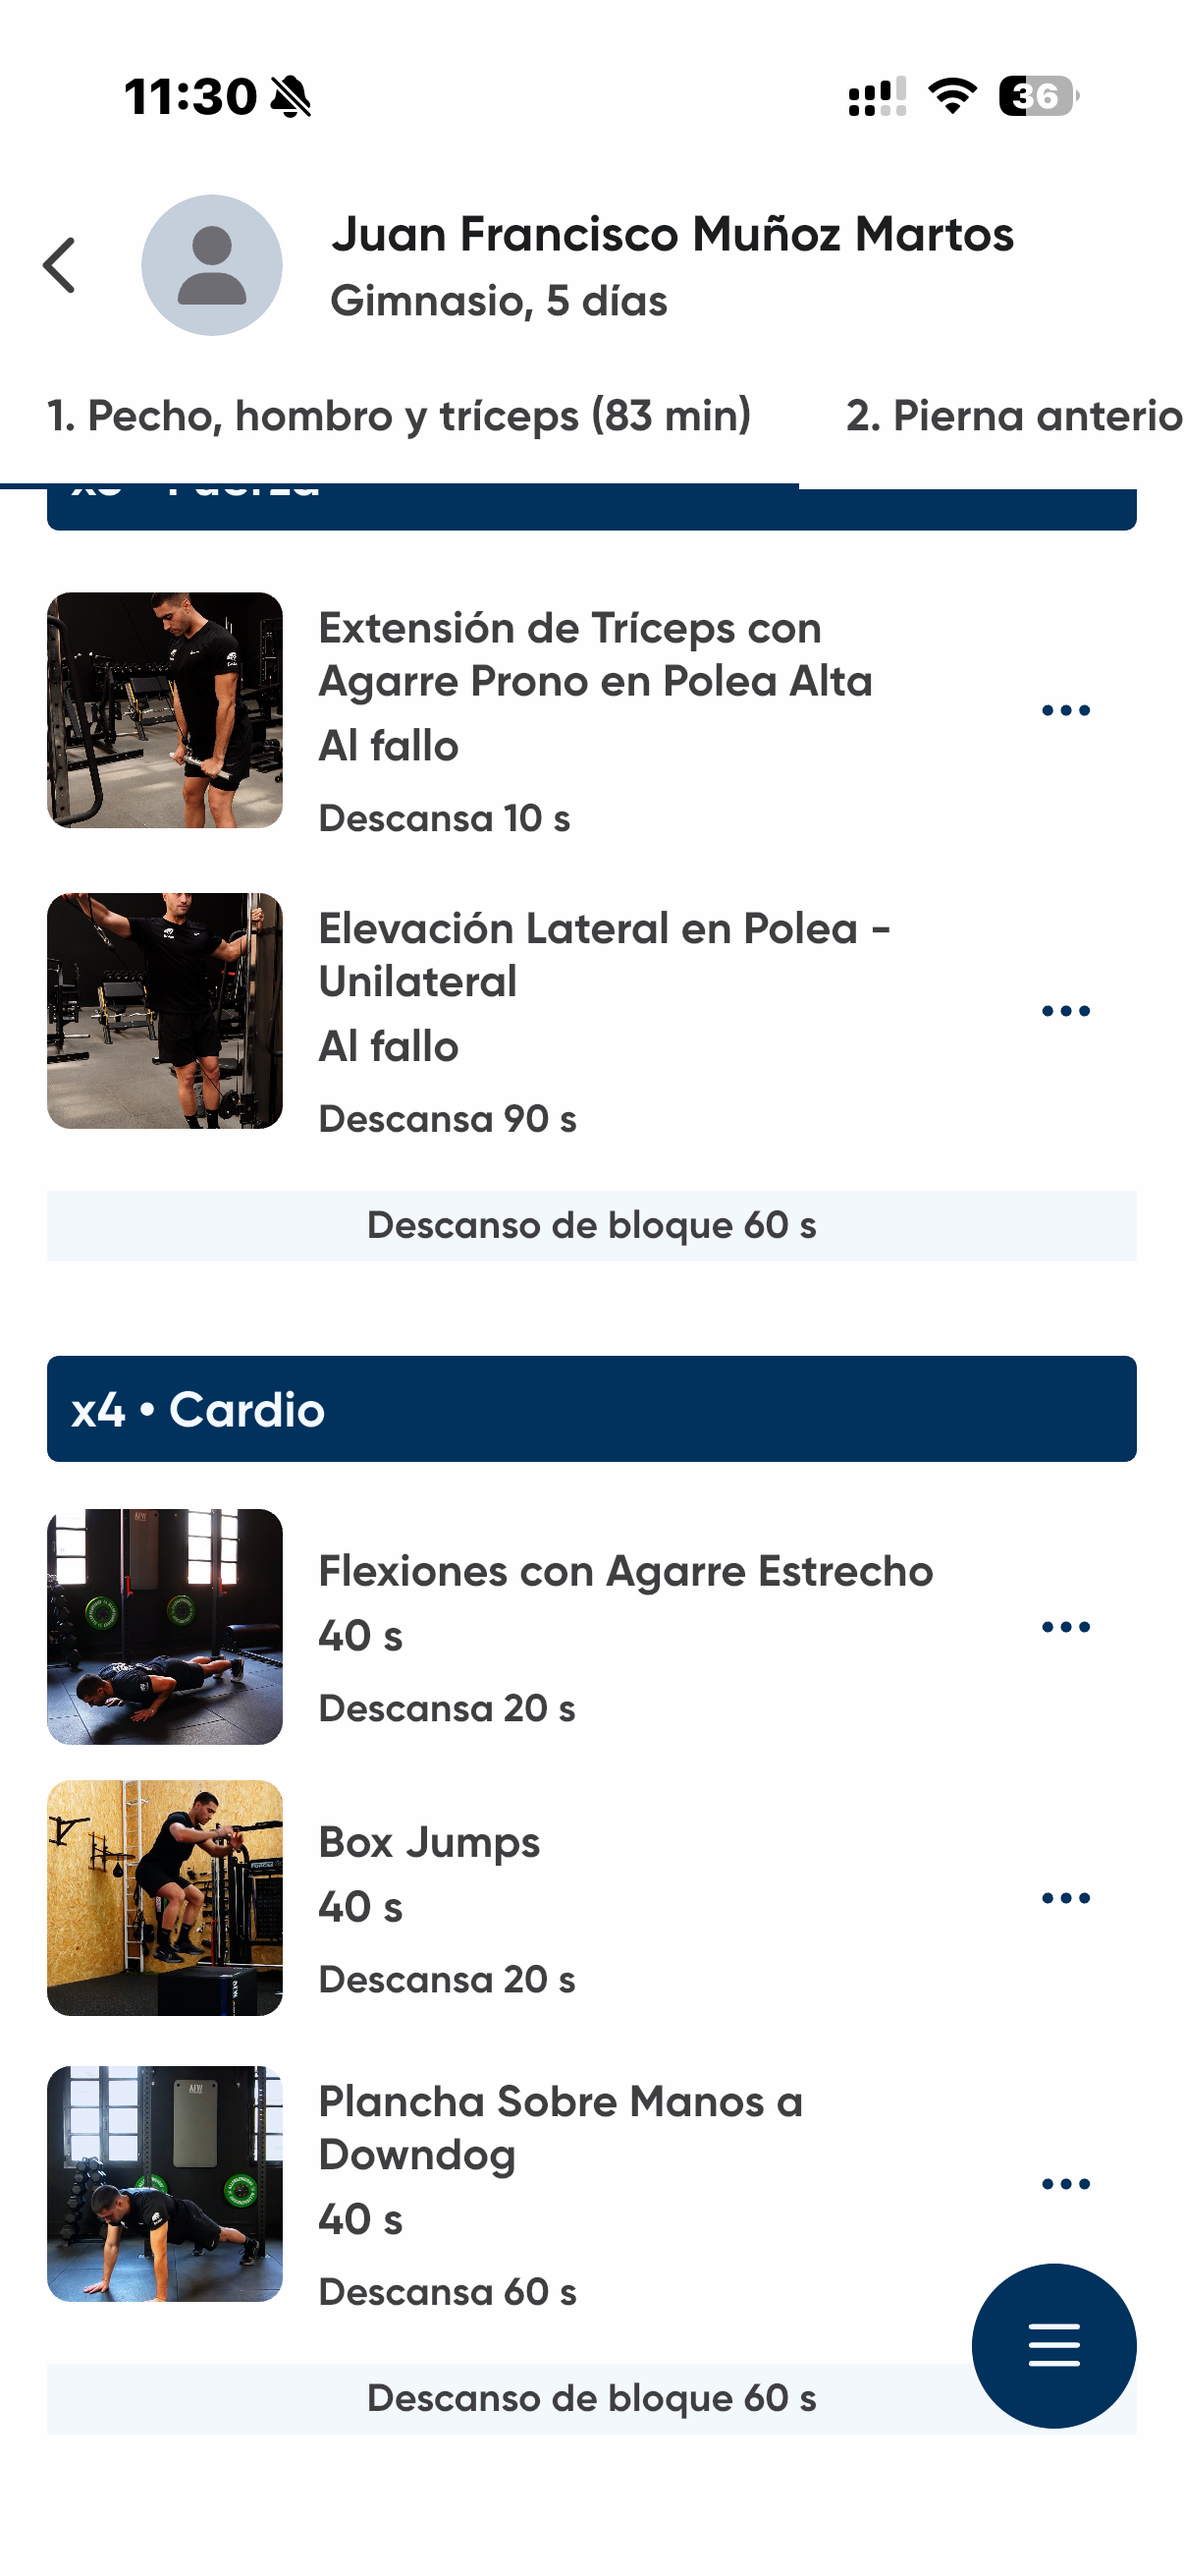
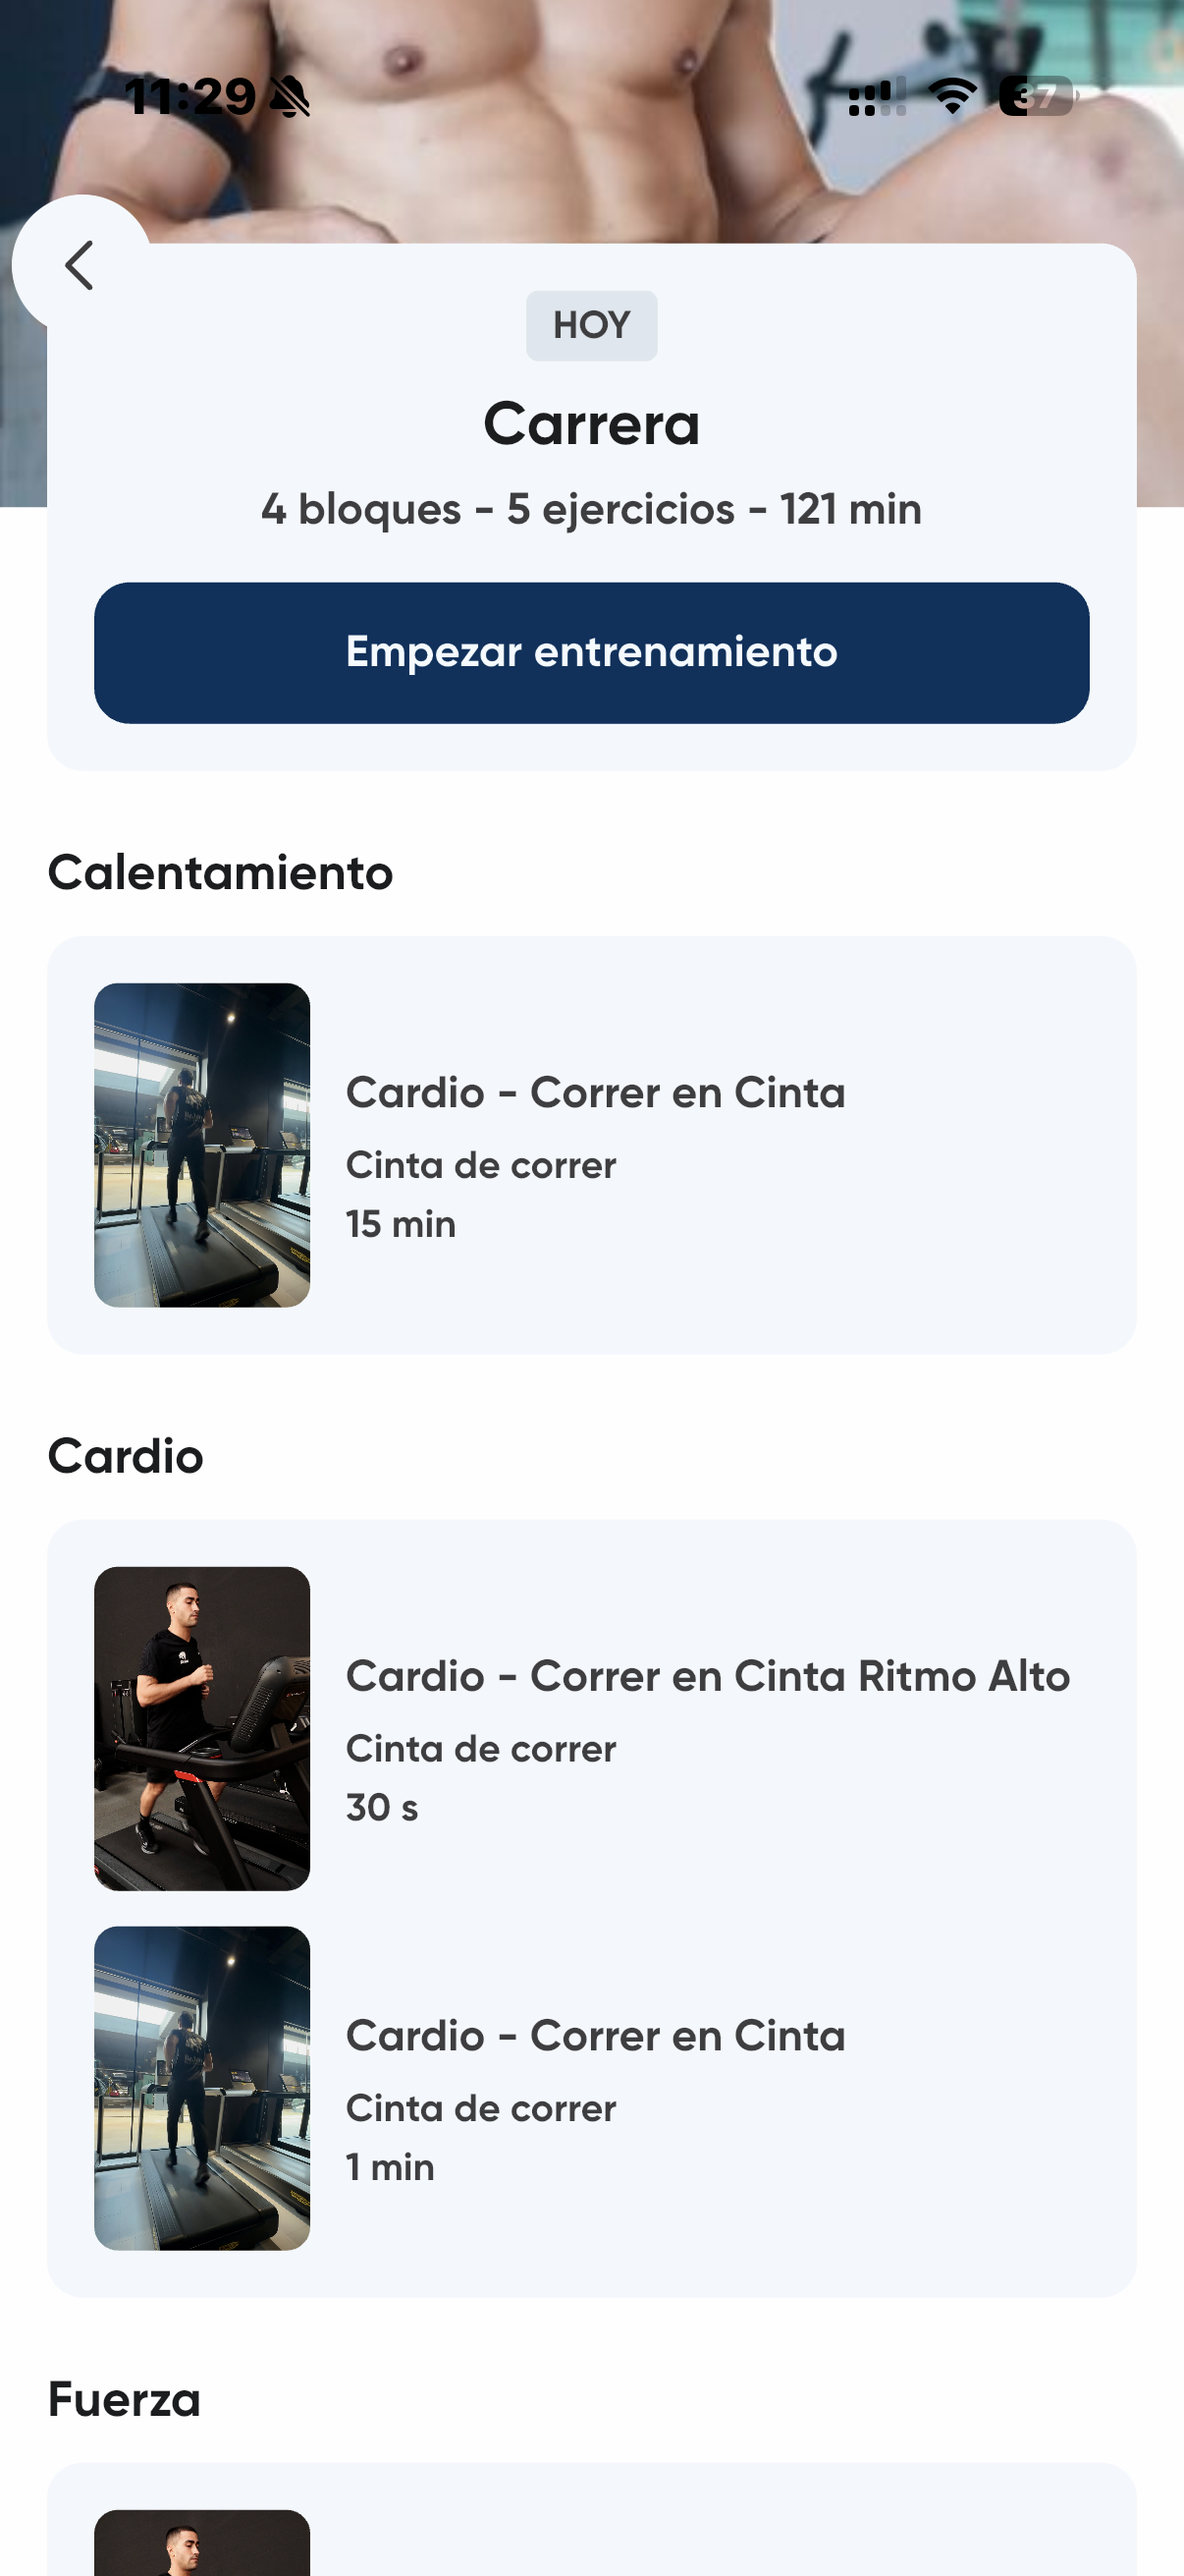
Apply copy improvements, hero contain, updated app training screenshot
- All copy edits from external reviewer (headlines, stats, steps, testimonials, footer)
- Hero image objectFit: contain so full photo shows on PC and mobile
- Footer updated to España y México
- app-training.png updated with new session screenshot

diff --git a/src/app/page.tsx b/src/app/page.tsx
@@ -33,7 +33,7 @@ const INCLUDES = [
 ];
 
 const STATS = [
-  { num: "-20kg", label: "Perdi mas de 20kg" },
+  { num: "-20kg", label: "Mi propia transformación" },
   { num: "+75", label: "Atletas entrenados" },
   { num: "4", label: "HYROX PRO" },
 ];
@@ -57,22 +57,22 @@ const WORKOUT = [
 
 const PROGRESS = [
   { n: "01", title: "Todo tu progreso en un mismo lugar", desc: "Registra tus entrenamientos, controla tu evolución y comprueba todo lo que estás avanzando desde la app." },
-  { n: "02", title: "Un camino claro", desc: "Sabrás qué hacer cada día, sin perder tiempo buscando entrenamientos o improvisando en el gimnasio." },
-  { n: "03", title: "Acompañamiento constante", desc: "No estarás solo durante el proceso. Tendrás acceso a la comunidad, soporte y nuevas herramientas para ayudarte a mantener la constancia." },
+  { n: "02", title: "Sabrás exactamente qué hacer.", desc: "Sin perder tiempo buscando entrenamientos ni improvisando en el gimnasio." },
+  { n: "03", title: "No vas a hacerlo solo.", desc: "Tendrás soporte directo, nuevas herramientas y el acompañamiento necesario para mantener la constancia." },
   { n: "04", title: "Un método que evoluciona contigo", desc: "Avanza progresivamente y adapta el entrenamiento a tu nivel, tus objetivos y tu vida real." },
 ];
 
 const STEPS = [
-  { n: "01", title: "Hablamos por WhatsApp", desc: "Me cuentas tu situación, objetivo y disponibilidad. Sin formularios, sin esperas." },
+  { n: "01", title: "Cuéntame dónde estás y dónde quieres llegar", desc: "Por WhatsApp, sin formularios ni esperas. Me cuentas tu situación, objetivo y disponibilidad." },
   { n: "02", title: "Diseño tu plan", desc: "Entreno + nutrición personalizados para ti. Lo tienes en la app en 24h." },
-  { n: "03", title: "Seguimiento real", desc: "Ajustes cada 15 dias, respondo tus dudas y vamos mejorando juntos." },
+  { n: "03", title: "Seguimiento real", desc: "Ajustes cada 15 días, respondo tus dudas y vamos avanzando juntos." },
 ];
 
 const TESTIMONIALS = [
   {
     quote: "En solo 3 meses he conseguido sentirme más fuerte, verme mejor y crear una rutina que por fin puedo mantener.",
     name: "Antonia M.",
-    role: "Atleta que queria verse mejor.",
+    role: "Objetivo: verse y sentirse mejor.",
     image: "/images/antonia-cambio.png",
   },
   {
@@ -131,7 +131,7 @@ function Hero() {
           src="/images/sled-push.jpg"
           alt="Pacomont — HYROX PRO España"
           fill priority
-          style={{ objectFit: "cover", objectPosition: "50% 20%" }}
+          style={{ objectFit: "contain", objectPosition: "center center" }}
           sizes="100vw"
         />
       </div>
@@ -145,8 +145,8 @@ function Hero() {
           <span style={{ display: "block", color: "#2563eb", fontSize: "clamp(56px, 11vw, 120px)" }}>mejor versión</span>
         </h1>
         <p style={{ fontSize: "clamp(13px, 1.3vw, 15px)", fontWeight: 400, lineHeight: 1.65, color: "rgba(255,255,255,0.7)", margin: 0, maxWidth: 420 }}>
-          Entrenamiento, nutrición y seguimiento personalizados.<br />
-          Adaptados a ti y a tu objetivo.
+          Entrenamiento, nutrición y seguimiento adaptados a ti,<br />
+          a tu objetivo y a tu vida.
         </p>
         <a href={WA_LINK} target="_blank" rel="noopener noreferrer" className="btn-hero" style={{
           display: "inline-block", background: "#25D366", color: "#fff",
@@ -197,7 +197,7 @@ function Includes() {
       <div style={{ maxWidth: 1100, margin: "0 auto" }}>
         <p style={{ fontSize: 11, fontWeight: 700, letterSpacing: "0.2em", textTransform: "uppercase", color: "#2563eb", margin: "0 0 14px" }}>Lo que incluye</p>
         <h2 style={{ fontSize: "clamp(26px, 3.5vw, 40px)", fontWeight: 800, color: "#0d1520", lineHeight: 1.15, letterSpacing: "-0.02em", margin: 0 }}>
-          Todo lo que necesitas para mejorar
+          Todo lo que necesitas para avanzar.
         </h2>
         <div style={{ display: "grid", gridTemplateColumns: "repeat(auto-fill, minmax(280px,1fr))", gap: 16, marginTop: 48 }}>
           {INCLUDES.map((item) => (
@@ -247,17 +247,13 @@ function CoachIntro() {
         </div>
 
         <div>
-          <p style={{ fontSize: 11, fontWeight: 700, letterSpacing: "0.2em", textTransform: "uppercase", color: "#2563eb", margin: "0 0 14px" }}>Tu nuevo coach</p>
+          <p style={{ fontSize: 11, fontWeight: 700, letterSpacing: "0.2em", textTransform: "uppercase", color: "#2563eb", margin: "0 0 14px" }}>Yo también empecé desde otro punto.</p>
           <h2 style={{ fontSize: "clamp(26px, 3.5vw, 40px)", fontWeight: 800, color: "#0d1520", lineHeight: 1.15, letterSpacing: "-0.02em", margin: "0 0 20px" }}>
             Tengo 36 años.<br />
             <span style={{ color: "#2563eb" }}>El mejor momento de mi vida.</span>
           </h2>
-          <p style={{ fontSize: 16, color: "#4b5563", lineHeight: 1.75, margin: "0 0 16px" }}>
-            No te lo digo como excusa ni para presumir.<br />
-            Te lo digo porque hace años no imaginaba que, a los 36 años, competiría en HYROX PRO, tendría más energía que a los 25 y estaría en la mejor forma de mi vida.
-          </p>
           <p style={{ fontSize: 16, color: "#4b5563", lineHeight: 1.75, margin: 0 }}>
-            La edad no es el límite. El verdadero cambio empieza cuando encuentras un método que encaja contigo y eres constante. Yo lo conseguí, y ahora quiero ayudarte a que tú también lo consigas.
+            Hace unos años no imaginaba que a los 36 estaría compitiendo en HYROX PRO y en la mejor forma de mi vida. No necesitas ser un atleta profesional. Necesitas un plan que encaje contigo y constancia para seguirlo.
           </p>
           <div className="stats-row" style={{ display: "flex", gap: 40, marginTop: 40 }}>
             {STATS.map((s) => (
@@ -304,7 +300,7 @@ function TrainingExample() {
         <div>
           <p style={{ fontSize: 11, fontWeight: 700, letterSpacing: "0.2em", textTransform: "uppercase", color: "#2563eb", margin: "0 0 14px" }}>Un día por dentro</p>
           <h2 style={{ fontSize: "clamp(26px, 3.5vw, 40px)", fontWeight: 800, color: "#0d1520", lineHeight: 1.15, letterSpacing: "-0.02em", margin: "0 0 40px" }}>
-            Así es un ejemplo de entrenamiento
+            Así puede ser uno de tus entrenamientos.
           </h2>
           <div style={{ display: "flex", flexDirection: "column", gap: 28 }}>
             {WORKOUT.map((w) => (
@@ -341,7 +337,7 @@ function AppMockup() {
       <div style={{ maxWidth: 1100, margin: "0 auto" }}>
         <p style={{ fontSize: 11, fontWeight: 700, letterSpacing: "0.2em", textTransform: "uppercase", color: "#2563eb", margin: "0 0 14px" }}>La app</p>
         <h2 style={{ fontSize: "clamp(26px, 3.5vw, 40px)", fontWeight: 800, color: "#0d1520", lineHeight: 1.15, letterSpacing: "-0.02em", margin: "0 0 48px", maxWidth: 560 }}>
-          Tus entrenamientos, siempre a mano
+          Tu plan. Tu progreso. Todo en un mismo sitio.
         </h2>
         <div style={{ display: "flex", justifyContent: "center", gap: 32, flexWrap: "wrap", alignItems: "flex-end" }}>
           {[
@@ -390,7 +386,7 @@ function Progress() {
         </div>
         <div className="cta-box" style={{ maxWidth: 680, margin: "56px auto 0", textAlign: "center", padding: "56px 40px", background: "#0d1520", borderRadius: 24 }}>
           <p style={{ fontSize: "clamp(20px, 2.6vw, 26px)", fontWeight: 700, color: "#fff", letterSpacing: "-0.01em", lineHeight: 1.4, margin: "0 0 28px" }}>
-            Tú haces el trabajo. Nosotros te damos el plan, las herramientas y el apoyo para conseguirlo.
+            Tú haces el trabajo. Yo te doy el plan, las herramientas y el acompañamiento para avanzar.
           </p>
           <a href={WA_LINK_START} target="_blank" rel="noopener noreferrer" style={{
             display: "inline-block", background: "#2563eb", color: "#fff",
@@ -411,10 +407,10 @@ function Testimonials() {
       <div style={{ maxWidth: 1100, margin: "0 auto" }}>
         <p style={{ fontSize: 11, fontWeight: 700, letterSpacing: "0.2em", textTransform: "uppercase", color: "#2563eb", margin: "0 0 14px" }}>Resultados</p>
         <h2 style={{ fontSize: "clamp(26px, 3.5vw, 40px)", fontWeight: 800, color: "#0d1520", lineHeight: 1.15, letterSpacing: "-0.02em", margin: "0 0 16px" }}>
-          Personas reales. Cambios reales.
+          Ellos empezaron como tú.
         </h2>
         <p style={{ fontSize: 16, color: "#4b5563", lineHeight: 1.75, margin: 0, maxWidth: 620 }}>
-          Ellos también empezaron con dudas, poco tiempo y sin saber qué hacer. Hoy entrenan mejor, se sienten más fuertes y han conseguido un cambio que pueden mantener.
+          Distintos objetivos, distintos puntos de partida. Una cosa en común: empezar a entrenar con un plan.
         </p>
         <div className="testimonials-grid" style={{ display: "grid", gridTemplateColumns: "repeat(3,1fr)", gap: 24, marginTop: 48 }}>
           {TESTIMONIALS.map((t) => (
@@ -475,10 +471,10 @@ function Offer() {
         <div className="cta-box" style={{ maxWidth: 680, margin: "0 auto", textAlign: "center", padding: "64px 40px", background: "#0d1520", borderRadius: 24 }}>
           <p style={{ fontSize: 11, fontWeight: 700, letterSpacing: "0.2em", textTransform: "uppercase", color: "#2563eb", margin: "0 0 14px" }}>Empieza hoy</p>
           <h2 style={{ fontSize: "clamp(26px, 3.5vw, 40px)", fontWeight: 800, color: "#fff", lineHeight: 1.15, letterSpacing: "-0.02em", margin: "0 0 16px" }}>
-            ¿Listo para ver resultados reales?
+            Tu mejor versión no aparece sola. Se construye.
           </h2>
           <p style={{ fontSize: 16, color: "#9ca3af", lineHeight: 1.75, margin: "0 0 40px" }}>
-            Sin precios escondidos ni compromisos raros. Escríbeme y en menos de 24h tienes tu plan.
+            Cuéntame tu objetivo y vemos cómo podemos llegar hasta él.
           </p>
           <a href={WA_LINK_START} target="_blank" rel="noopener noreferrer" style={{
             display: "inline-block", background: "#2563eb", color: "#fff",
@@ -532,7 +528,7 @@ function Footer() {
     <footer style={{ background: "#0d1520", color: "#9ca3af", padding: "48px 24px", textAlign: "center", fontSize: 14 }}>
       <p style={{ fontSize: 20, fontWeight: 800, letterSpacing: "0.15em", textTransform: "uppercase", color: "#fff", margin: "0 0 16px" }}>Pacomont</p>
       <p style={{ margin: 0 }}>
-        Embajador Oficial HYROX España ·{" "}
+        Embajador Oficial HYROX España y México ·{" "}
         <a href={IG_LINK} target="_blank" rel="noopener noreferrer" style={{ color: "#9ca3af" }}>@pacomont24</a>
       </p>
       <p style={{ margin: "8px 0 0", fontSize: 12, color: "#4b5563" }}>© 2026 Pacomont. Todos los derechos reservados.</p>
